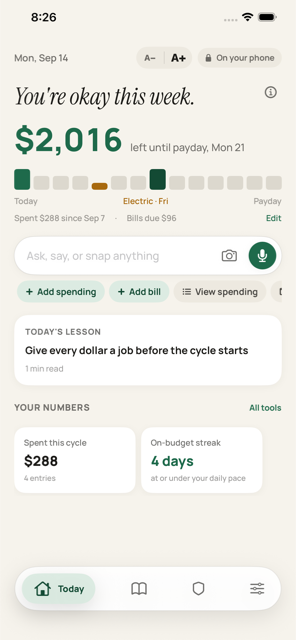
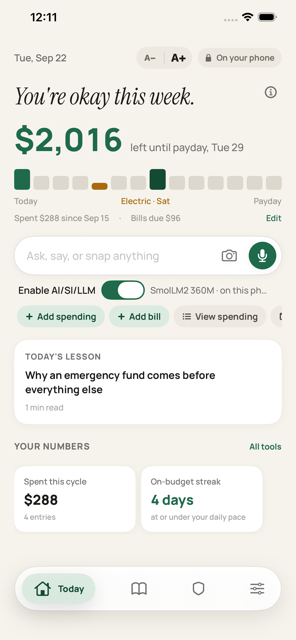
Homepage gallery: Today screenshot now shows AI/SI/LLM on; note on-device AI new in 1.1

diff --git a/index.html b/index.html
@@ -90,15 +90,15 @@
       <p class="kicker">See it in action</p>
       <h2>Real screens from the app</h2>
       <p class="section-lede">
-        Your actual cash-left-until-payday, a real paycheck broken down line by line, and
-        spending viewed in a different country's currency without your real numbers ever
-        changing.
+        Your actual cash-left-until-payday with the optional on-device AI switched on, a real
+        paycheck broken down line by line, and spending viewed in a different country's
+        currency without your real numbers ever changing.
       </p>
     </div>
     <ul class="screens-grid">
       <li class="screen-item">
-        <div class="screen-frame"><img src="assets/img/screens/today.png" alt="PlainMoney Today tab showing cash left until payday and a 14-day spending bar" loading="lazy"></div>
-        <p class="cap">Today, at a glance</p>
+        <div class="screen-frame"><img src="assets/img/screens/today.png" alt="PlainMoney Today tab showing cash left until payday, a 14-day spending bar, and the Enable AI/SI/LLM switch on with an on-device model chosen" loading="lazy"></div>
+        <p class="cap">Today, with on-device AI on</p>
       </li>
       <li class="screen-item">
         <div class="screen-frame"><img src="assets/img/screens/paycheck-decoder.png" alt="PlainMoney paycheck decoder tool breaking a gross paycheck into taxes, deductions, and take-home pay" loading="lazy"></div>
@@ -354,6 +354,7 @@
     </div>
     <ul class="apps-points">
       <li><strong>Your real numbers, on your device</strong> — never uploaded, never linked to a bank</li>
+      <li><strong>Optional on-device AI (new in 1.1)</strong> — "Enable AI/SI/LLM" is off by default; the model runs on your phone and nothing you type leaves it</li>
       <li><strong>Free forever core</strong> — budgeting, debt, saving basics, and all of Safety</li>
       <li><strong>Pro unlocks the deeper tools</strong> — $4.99/mo, cancel anytime</li>
       <li><strong>Export or delete everything</strong> — one screen, because it's already only yours</li>
